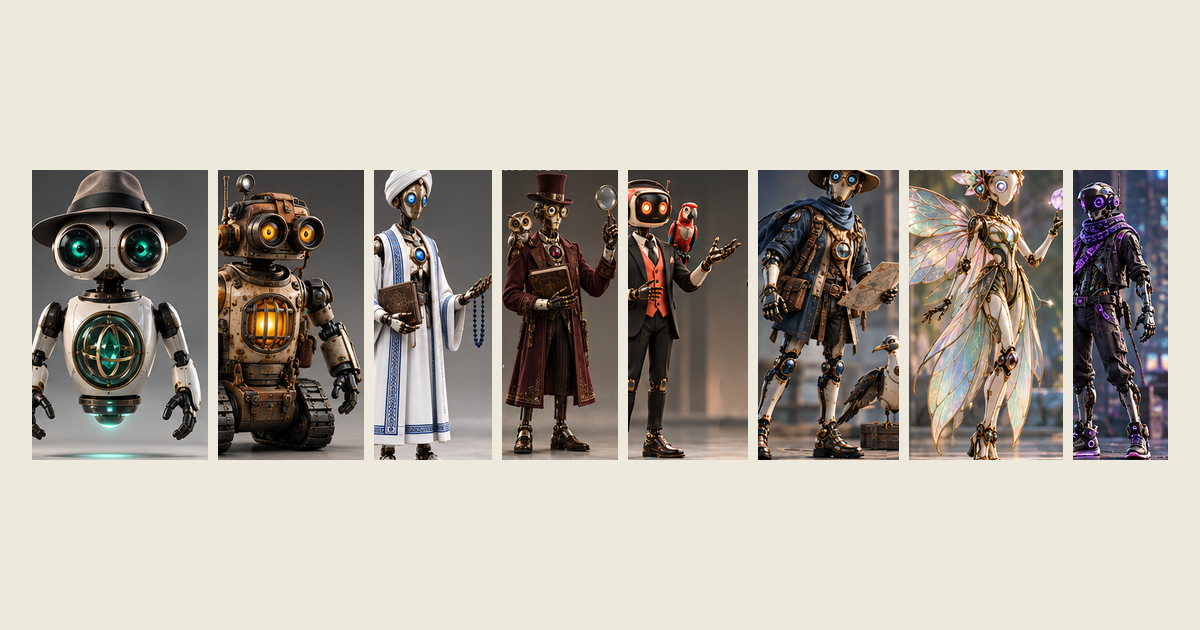
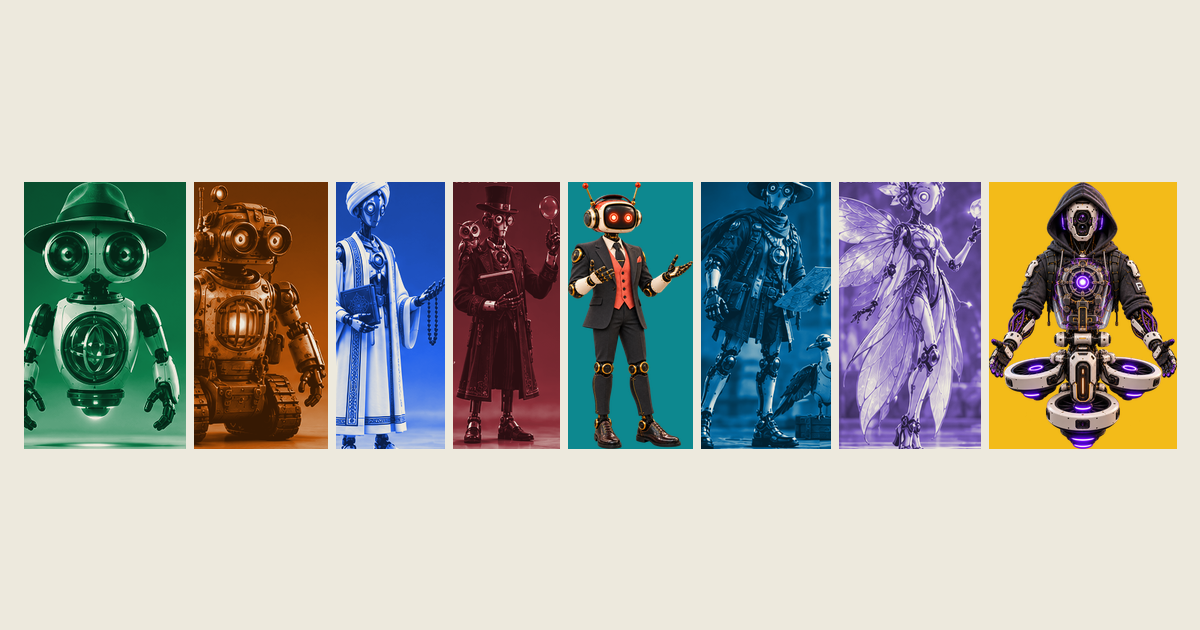
Derive the poster diagonal from the rail; make the hero a poster
The diagonal was a fixed 72% of band width, asserted to clear a rail
"starting around 74%". That only held above ~1200px. Between 721px and
~900px the rail is pinned to its 220px minimum and starts far to the left
of 72%, so the saturated field ran under the catalogue mark and the first
micro-copy words — 12px mono ink on Echo's teal is 4.25:1, a real AA
failure. Measured -27px at 736x414 on the landing page, and +2px at
844x390, which is not a margin either.

Derive it instead: --rail-min/--rail-frac size the rail column *and* the
diagonal, and the diagonal's top edge is placed --rail-clear left of
wherever that column actually starts. Since the diagonal only moves further
left as it descends, top-edge clearance is worst-case clearance — no rail
content can land on the field at any width or any band height. The foot
stays at 50% because the field also has to contain .poster-name, which is
bone on teal for Echo and would vanish if it crossed onto bone.

Measured after (character pages, worst rail item / top-edge floor):
736x414 +46.7/+16, 844x390 +46.6/+16.9, 896x414 +59.1/+17.9,
1280x560 +142/+25.6, 1440x900 +215/+28.8. Echo's name keeps 22-61px of
headroom inside the field. Comment above the clip-path now names the width
range the geometry holds over — the missing range is why this broke.

The hero was the one surface still in the phase-one design. Give it the
system's devices without a character's colour field: a tonal --bone /
[…]

diff --git a/src/styles/tokens.css b/src/styles/tokens.css
@@ -12,7 +12,28 @@
   --measure: 60ch;
   --gutter: clamp(20px, 4vw, 48px);
   --grain-opacity: 0.055;
-  --diagonal: 72%;
+
+  /* Poster geometry (see CharacterBand.astro for the full argument).
+     `--rail-min` / `--rail-frac` size the bone rail — the right-hand grid
+     column that carries all of a poster's small text — and are also what the
+     diagonal is derived from, so the boundary and the column it protects can
+     never drift apart.
+
+     `--rail-col` and `--diagonal` contain a bare `100%`, which resolves
+     against whichever box finally uses them. They are only meaningful inside
+     an element that spans the full band/hero width (in practice: an
+     `inset: 0` pseudo-element on the section itself). */
+  --rail-min: 220px;
+  --rail-frac: .26;
+  /* Gap between the diagonal's top edge and the rail column's left edge.
+     Lands inside the grid column gap, which is clamp(20px, 4vw, 48px). */
+  --rail-clear: clamp(16px, 2vw, 40px);
+  --rail-col: max(var(--rail-min), calc(var(--rail-frac) * (100% - 2 * var(--gutter))));
+  --diagonal: calc(100% - var(--gutter) - var(--rail-col) - var(--rail-clear));
+  /* Where the diagonal lands at the foot of the band. Not derived: the field
+     also has to contain the display name at its full 18vw, whose right edge
+     sits at ~50% of the viewport for a four-letter name. */
+  --diagonal-foot: 50%;
 }
 
 *, *::before, *::after { box-sizing: border-box; }
